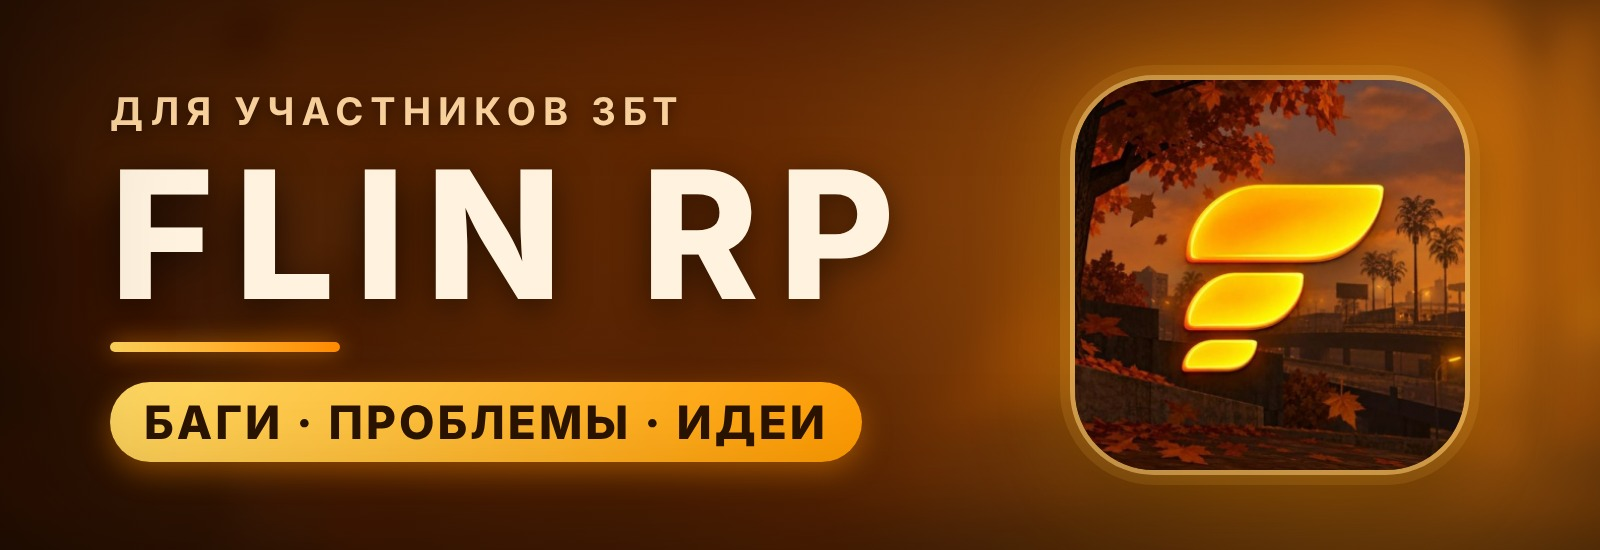
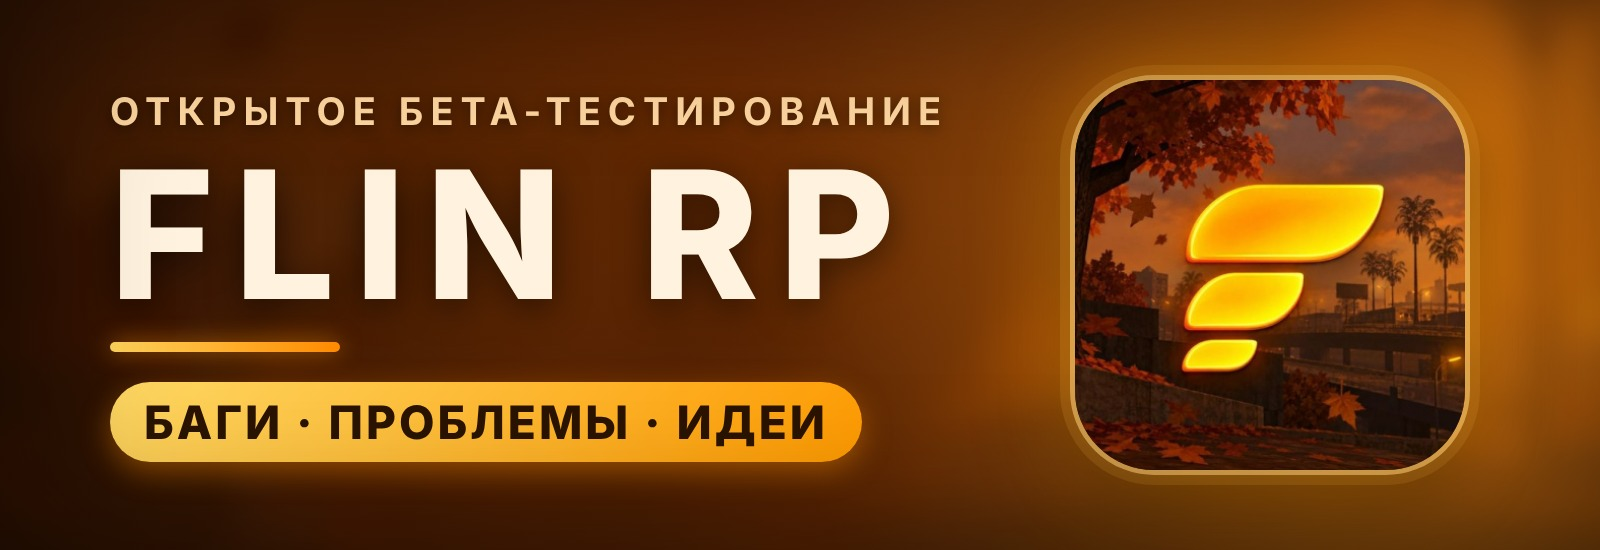
Add files via upload

Changed region(s): [[0.0625, 0.1545, 0.5938, 0.2473]]

diff --git a/main.py b/main.py
@@ -1,7 +1,7 @@
 """
-Telegram-бот для участников ЗБТ: приём отчётов о багах, проблемах и идеях по улучшению.
+Telegram-бот открытого бета-тестирования (ОБТ): приём отчётов о багах, проблемах и идеях по улучшению.
 
-Участник выбирает тип отчёта, указывает ник, описывает ситуацию и прикладывает доказательства.
+Любой желающий выбирает тип отчёта, указывает ник, описывает ситуацию и прикладывает доказательства.
 Отчёт получает номер и попадает в группу администраторов, где его обрабатывают. О каждом
 изменении статуса участник узнаёт в личных сообщениях. Библиотека: aiogram 3.x.
 """
@@ -47,14 +47,12 @@ def env_ids(name: str) -> set:
 
 BOT_TOKEN = os.getenv("BOT_TOKEN", "")
 ADMIN_CHAT_ID = env_int("ADMIN_CHAT_ID")  # группа администраторов
-ADMIN_THREAD_ID = env_int("ADMIN_THREAD_ID") or None  # тема в группе с темами, необязательно
+ADMIN_THREAD_ID = env_int("ADMIN_THREAD_ID") or None  # тема «ОБТ ОТЧЕТЫ» в группе администраторов
 ADMIN_IDS = env_ids("ADMIN_IDS")  # если задано, статусы могут менять только эти Telegram ID
-BETA_CHAT_ID = env_int("BETA_CHAT_ID")  # конференция ЗБТ: пользоваться ботом могут только её участники
-ALLOWED_IDS = env_ids("ALLOWED_IDS")  # Telegram ID, которым доступ разрешён всегда
 PROJECT_NAME = os.getenv("PROJECT_NAME", "Мой проект")
 BANNER_PATH = os.getenv("BANNER_PATH", "banner.jpg")  # картинка над меню, необязательно
 TZ_OFFSET = env_int("TZ_OFFSET_HOURS", 2)
-MAX_REPORTS_PER_DAY = env_int("MAX_REPORTS_PER_DAY", 20)
+MAX_REPORTS_PER_DAY = env_int("MAX_REPORTS_PER_DAY", 10)
 COOLDOWN_SECONDS = env_int("COOLDOWN_SECONDS", 60)
 MAX_EVIDENCE = 10
 DB_PATH = os.getenv("DB_PATH", "feedback.db")
@@ -78,7 +76,7 @@ EVIDENCE_TYPES = (
 T = {
     "start": (
         "Привет, <b>{name}</b>!\n\n"
-        "Это бот участников ЗБТ проекта <b>{project}</b>. Здесь можно сообщить о баге или проблеме "
+        "Это бот открытого бета-тестирования (ОБТ) проекта <b>{project}</b>. Здесь можно сообщить о баге или проблеме "
         "либо предложить идею по улучшению.\n\n"
         "Каждый отчёт получает номер, а о решении администрации вы узнаете в этом чате."
     ),
@@ -89,7 +87,6 @@ T = {
         "3. <b>Доказательства:</b> скриншоты, видео, файлы или ссылки. Можно отправить до 10 сообщений.\n\n"
         "Чем подробнее отчёт, тем быстрее мы сможем разобраться. Один отчёт описывает одну ситуацию."
     ),
-    "not_member": "Бот доступен только участникам ЗБТ. Если вы участник, убедитесь, что вы состоите в конференции ЗБТ.",
     "banned": "Доступ к отправке отчётов для вас ограничен администрацией.",
     "closed": "Приём отчётов сейчас приостановлен. Попробуйте позже.",
     "not_ready": "Бот ещё не настроен. Попробуйте позже.",
@@ -393,36 +390,11 @@ async def send_menu(bot: Bot, chat_id: int, name: str):
 
 
 # ───────────────────────── ДОСТУП ─────────────────────────
-_member_cache = {}  # user_id -> (участник ли, время проверки)
-
-
-async def is_participant(bot: Bot, user_id: int) -> bool:
-    """Проверяет, состоит ли пользователь в конференции ЗБТ. Без BETA_CHAT_ID бот открыт для всех."""
-    if not BETA_CHAT_ID:
-        return True
-    cached = _member_cache.get(user_id)
-    if cached and time.time() - cached[1] < 300:
-        return cached[0]
-    try:
-        member = await bot.get_chat_member(BETA_CHAT_ID, user_id)
-        status = str(getattr(member.status, "value", member.status))
-        ok = status in ("creator", "administrator", "member") or (
-            status == "restricted" and bool(getattr(member, "is_member", False))
-        )
-    except TelegramAPIError:
-        logging.warning("Не удалось проверить участие пользователя %s. Бот должен быть администратором конференции.", user_id)
-        ok = False
-    _member_cache[user_id] = (ok, time.time())
-    return ok
-
-
 async def check_access(bot: Bot, user_id: int, new_report: bool = False):
     """Возвращает текст причины отказа или None, если доступ есть."""
     row = get_user(user_id)
     if row and row["banned"]:
         return T["banned"]
-    if user_id not in ALLOWED_IDS and not await is_participant(bot, user_id):
-        return T["not_member"]
     if new_report:
         if not reports_open():
             return T["closed"]
@@ -1029,8 +1001,8 @@ async def main():
         raise SystemExit("Не задана переменная окружения BOT_TOKEN")
     if not ADMIN_CHAT_ID:
         logging.warning("ADMIN_CHAT_ID не задан: отчёты принимать некуда. Узнайте ID группы командой /chatid.")
-    if not BETA_CHAT_ID:
-        logging.warning("BETA_CHAT_ID не задан: ботом сможет пользоваться любой человек.")
+    if not ADMIN_THREAD_ID:
+        logging.warning("ADMIN_THREAD_ID не задан: отчёты придут в общий чат группы, а не в тему «ОБТ ОТЧЕТЫ».")
     bot = Bot(BOT_TOKEN, default=DefaultBotProperties(parse_mode=ParseMode.HTML))
     dp = Dispatcher(storage=MemoryStorage())
     dp.include_router(common_router)

diff --git a/README.md b/README.md
@@ -1,6 +1,6 @@
-# Telegram-бот отчётов для участников ЗБТ
+# Telegram-бот отчётов для ОБТ
 
-Участники закрытого бета-тестирования сообщают о багах и проблемах и предлагают идеи по улучшению. Администраторы разбирают отчёты в отдельной группе Telegram, а участник следит за статусом в личных сообщениях.
+Бот открытого бета-тестирования: любой желающий сообщает о багах и проблемах и предлагает идеи по улучшению. Отчёты приходят в тему «ОБТ ОТЧЕТЫ» в группе администраторов, а автор следит за статусом в личных сообщениях.
 
 ## Возможности
 
@@ -8,21 +8,21 @@
 - Анкета из трёх шагов: ник, подробное описание, доказательства (скриншоты, видео, файлы, голосовые, ссылки, до 10 вложений)
 - Для багов и проблем доказательства обязательны, для идей нет
 - Ник запоминается, и в следующий раз его можно выбрать одной кнопкой
-- Доступ только участникам ЗБТ: бот проверяет, состоит ли человек в конференции ЗБТ
+- Доступ открыт всем: бот не проверяет членство в группах
 - Номер у каждого отчёта, раздел «Мои отчёты» со статусами
-- Карточка отчёта в группе администраторов с кнопками, вложения копируются туда же
-- Статусы: 🟡 Новый, 🔵 В работе, 🟢 Решено, 🔴 Отклонено, участник получает уведомление о каждом изменении
-- Ответ администратора участнику: ответом (reply) на карточку отчёта или командой `/answer`
-- Защита от спама: пауза между отчётами и суточный лимит, блокировка нарушителей командой `/ban`
+- Карточка отчёта в теме «ОБТ ОТЧЕТЫ» с кнопками, вложения копируются туда же
+- Статусы: 🟡 Новый, 🔵 В работе, 🟢 Решено, 🔴 Отклонено, автор получает уведомление о каждом изменении
+- Ответ администратора автору: ответом (reply) на карточку отчёта или командой `/answer`
+- Защита от спама, так как бот открыт всем: пауза между отчётами, суточный лимит, блокировка нарушителей командой `/ban`
 
 ## Как это работает
 
-1. Участник нажимает «Сообщить о баге», «Сообщить о проблеме» или «Предложить идею».
+1. Пользователь нажимает «Сообщить о баге», «Сообщить о проблеме» или «Предложить идею».
 2. Указывает ник, описывает ситуацию, прикладывает доказательства и проверяет отчёт.
-3. В группе администраторов появляется карточка с кнопками и вложениями.
-4. Администратор берёт отчёт в работу, решает или отклоняет его, участник получает уведомление.
+3. В теме «ОБТ ОТЧЕТЫ» появляется карточка с кнопками и вложениями.
+4. Администратор берёт отчёт в работу, решает или отклоняет его, автор получает уведомление.
 
-## Команды администраторов (только в группе администраторов)
+## Команды администраторов (в группе администраторов)
 
 | Команда | Что делает |
 |---|---|
@@ -31,10 +31,10 @@
 | `/find текст` | поиск по нику, @username, ID и описанию |
 | `/progress номер` | взять в работу |
 | `/done номер [комментарий]` | решено или учтено |
-| `/reject номер [причина]` | отклонить, причину увидит участник |
+| `/reject номер [причина]` | отклонить, причину увидит автор |
 | `/reopen номер` | вернуть в работу |
-| `/answer номер текст` | написать участнику |
-| ответ (reply) на карточку | текст уходит участнику |
+| `/answer номер текст` | написать автору |
+| ответ (reply) на карточку | текст уходит автору |
 | `/ban ID`, `/unban ID` | заблокировать или разблокировать отправку отчётов |
 | `/stats` | статистика по статусам и типам |
 | `/close`, `/open` | приостановить или возобновить приём |
@@ -51,17 +51,15 @@
 |---|---|
 | `BOT_TOKEN` | токен от @BotFather (обязательно) |
 | `ADMIN_CHAT_ID` | ID группы администраторов, число с минусом (обязательно) |
-| `ADMIN_THREAD_ID` | ID темы, если в группе включены Темы (необязательно) |
+| `ADMIN_THREAD_ID` | ID темы «ОБТ ОТЧЕТЫ»: напишите `/chatid` внутри этой темы. Без него отчёты придут в общий чат группы |
 | `ADMIN_IDS` | Telegram ID администраторов через запятую; если задано, статусы меняют только они (необязательно) |
-| `BETA_CHAT_ID` | ID конференции ЗБТ: пользоваться ботом смогут только её участники. Без него бот открыт для всех |
-| `ALLOWED_IDS` | Telegram ID, которым доступ разрешён всегда (необязательно) |
 | `PROJECT_NAME` | название проекта |
 | `BANNER_PATH` | картинка над меню, по умолчанию `banner.jpg` |
 | `TZ_OFFSET_HOURS` | часовой пояс для дат, по умолчанию 2 |
-| `MAX_REPORTS_PER_DAY` | сколько отчётов в сутки может отправить один участник, по умолчанию 10 |
-| `COOLDOWN_SECONDS` | пауза между отчётами одного участника, по умолчанию 60 |
+| `MAX_REPORTS_PER_DAY` | сколько отчётов в сутки может отправить один человек, по умолчанию 10 |
+| `COOLDOWN_SECONDS` | пауза между отчётами одного человека, по умолчанию 60 |
 
-Чтобы проверка участников работала, добавьте этого бота в конференцию ЗБТ администратором (достаточно любых прав): без этого Telegram не отдаёт список участников.
+Бот должен быть администратором группы администраторов, чтобы публиковать карточки и вложения в теме.
 
 ## Запуск
 
@@ -73,6 +71,7 @@ python main.py
 ## Данные и безопасность
 
 - Бот хранит Telegram ID, имя, username, ник и текст отчёта в файле `feedback.db`. Периодически делайте `/export`.
-- Вложения бот не хранит: при отправке отчёта он копирует их в группу администраторов, поэтому сообщения участника с вложениями не нужно удалять до отправки.
+- Вложения бот не хранит: при отправке отчёта он копирует их в группу администраторов, поэтому автору не нужно удалять свои сообщения до отправки.
+- Бот открыт всем, поэтому следите за спамом: уменьшите `MAX_REPORTS_PER_DAY` или `COOLDOWN_SECONDS` при необходимости, а нарушителей блокируйте через `/ban`.
 - Если вы задали `ADMIN_IDS`, анонимные администраторы группы (отправка от имени группы) статусы менять не смогут.
 - Если токен бота попал в открытый доступ, перевыпустите его в @BotFather (`/revoke`).
